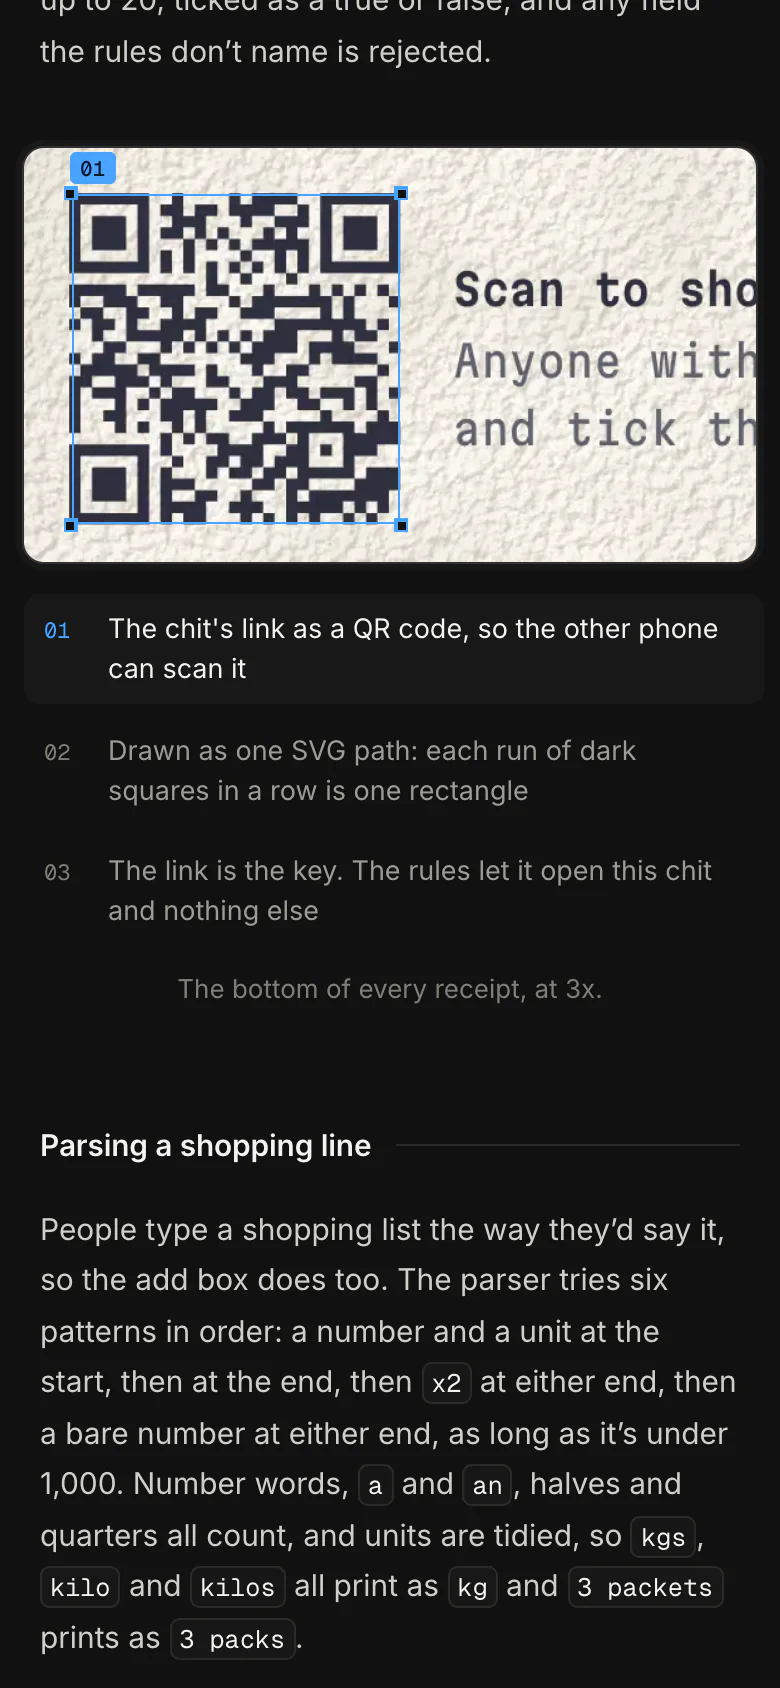
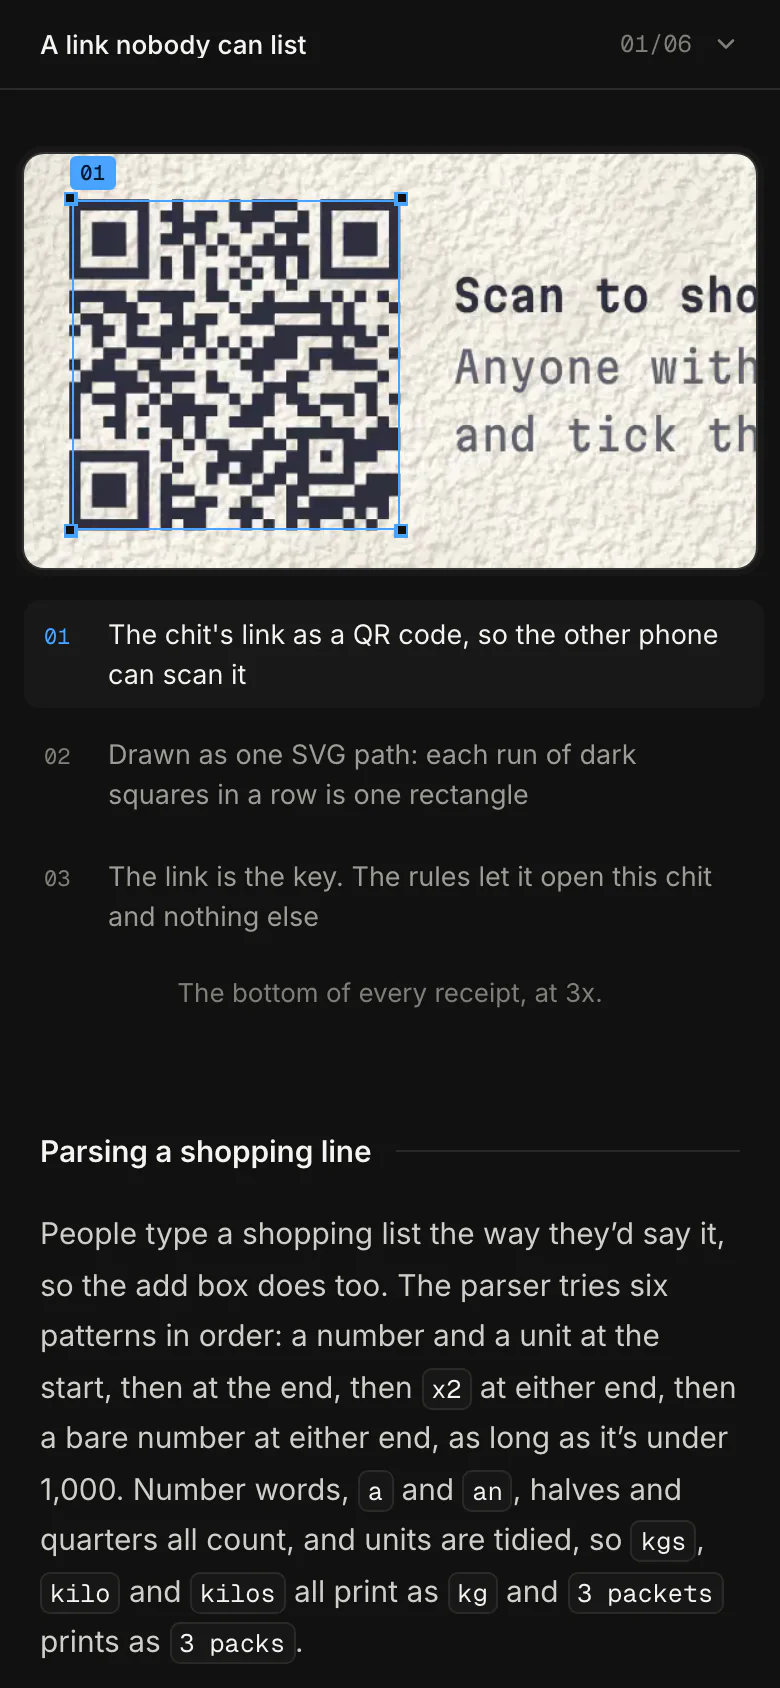
Retake the phone close-up under the contents bar

diff --git a/README.md b/README.md
@@ -27,7 +27,7 @@ there are two kinds of post. a **project write-up** is the story of one project:
   &nbsp;
   <img src="./docs/screenshots/Inspect-6.webp" width="32%" alt="the top of the tenzies write-up on a phone: the back link, the title, the date and read time, the dek and the hero">
   &nbsp;
-  <img src="./docs/screenshots/Inspect-7.webp" width="32%" alt="a close-up of the foot of a chit receipt in dark mode on a phone, with a blue selection box round the qr code and its note highlighted in the list under it">
+  <img src="./docs/screenshots/Inspect-7.webp" width="32%" alt="a close-up of the foot of a chit receipt in dark mode on a phone, under the contents bar naming the section, with a blue selection box round the qr code and its note highlighted in the list under it">
 </p>
 
 - **projects and notes.** one switch on the home page, with filters for the notes. it swaps the list in place, so the page doesn't reload and nothing under your finger moves.
